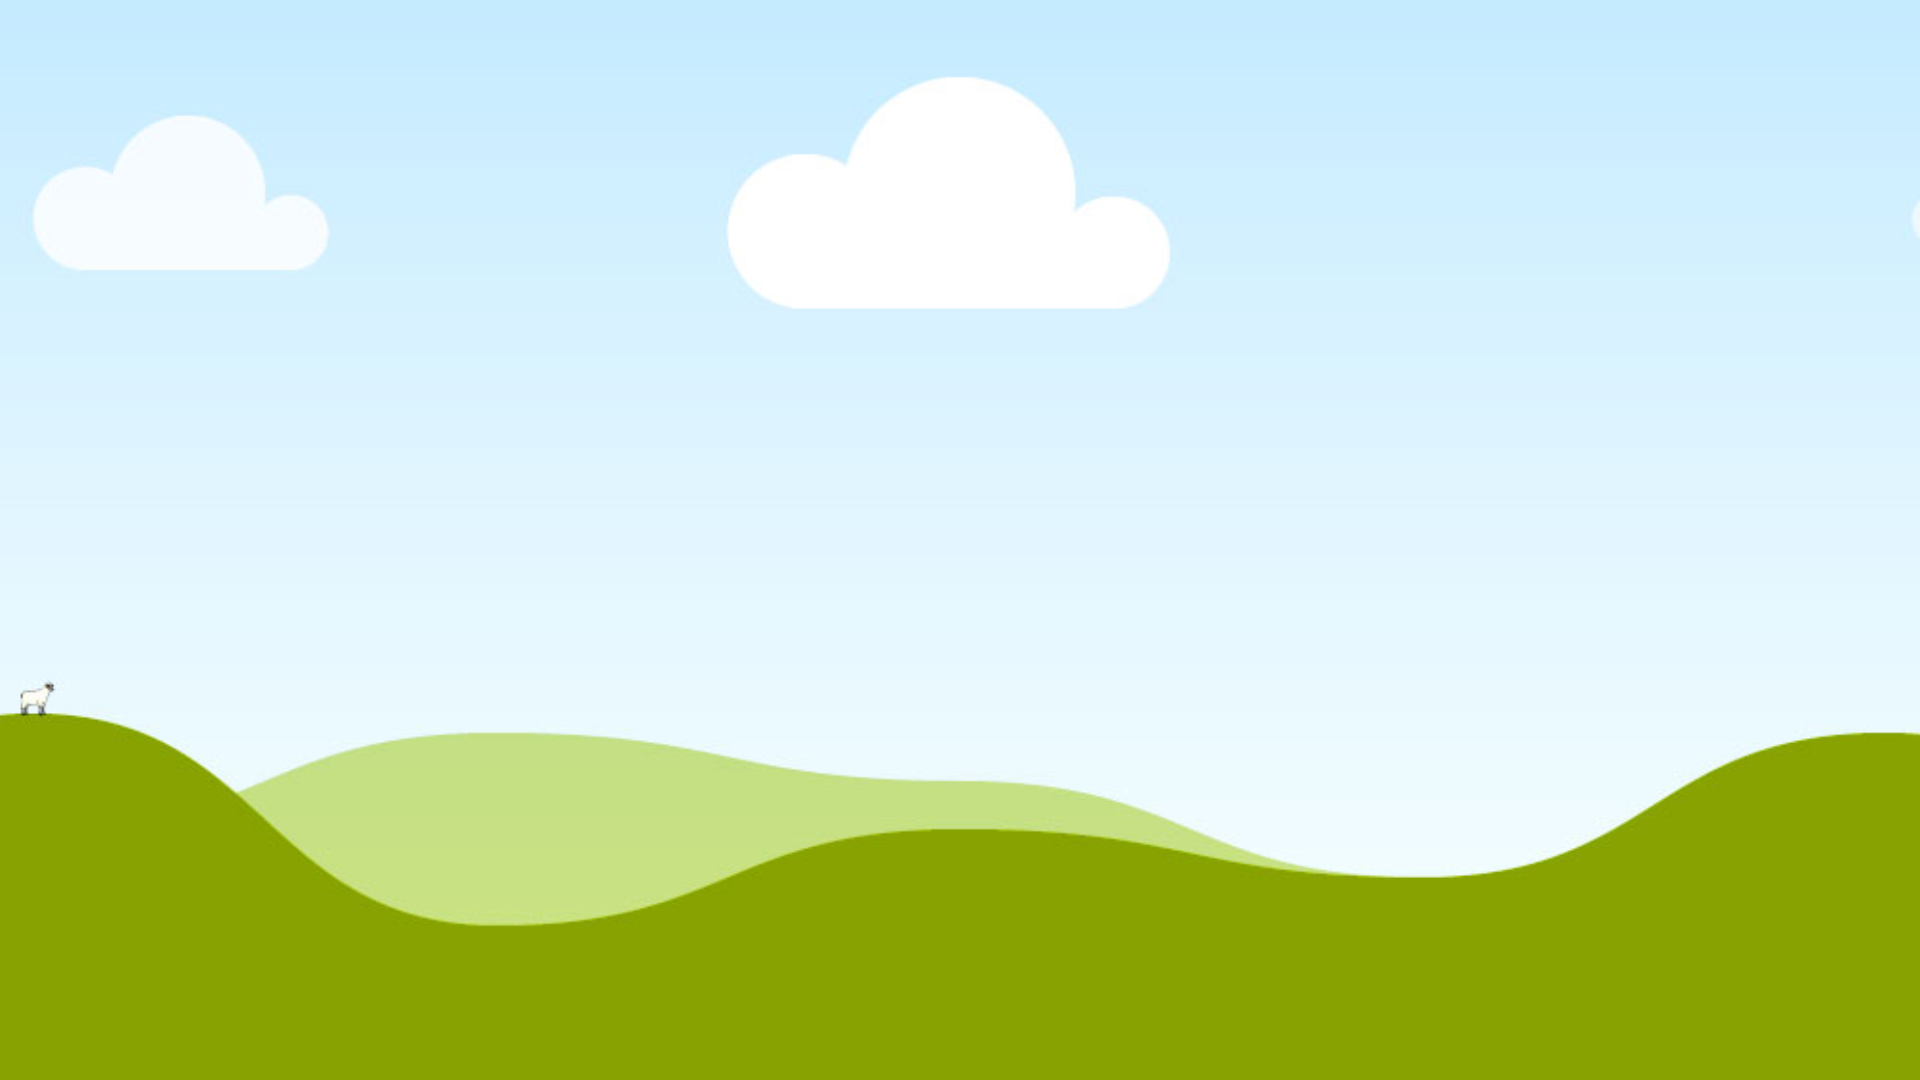
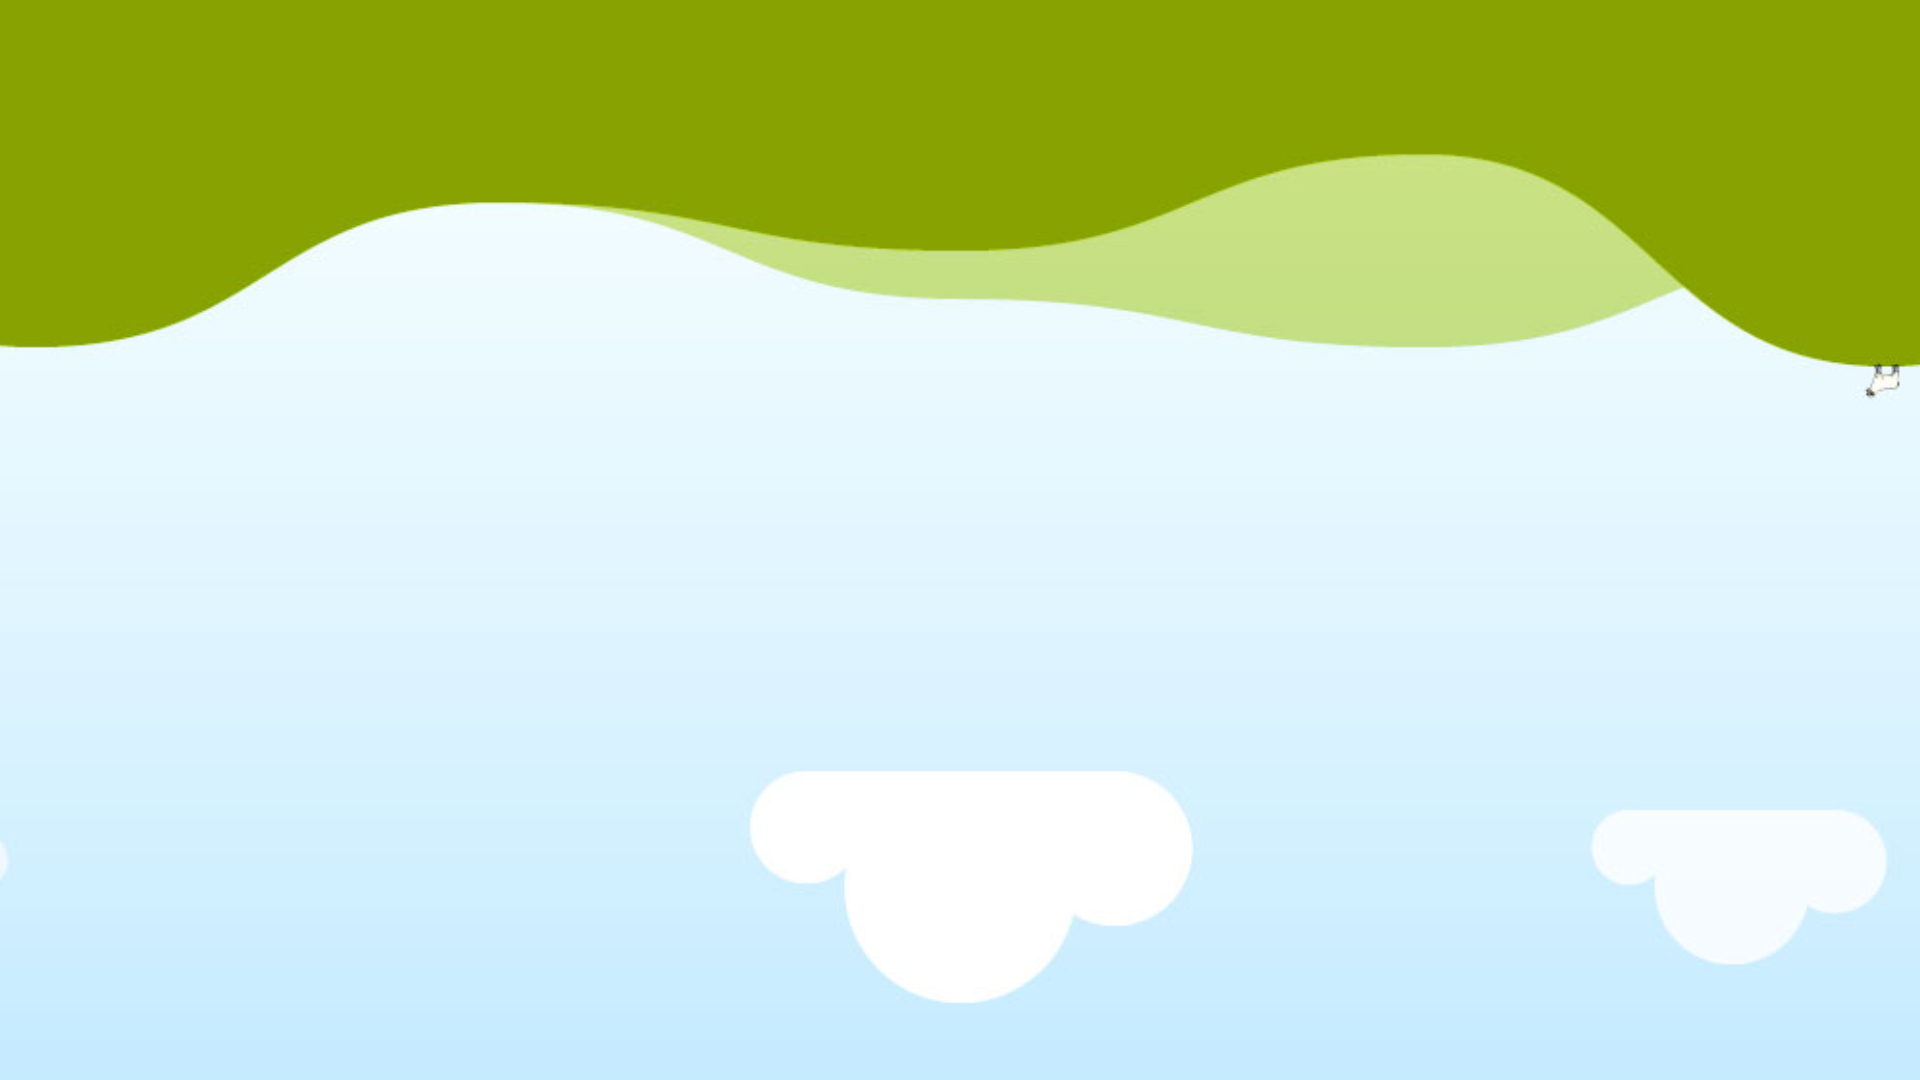
Adds the second landing page

diff --git a/frontend/src/Components/Landing/Landing.js b/frontend/src/Components/Landing/Landing.js
@@ -1,14 +1,21 @@
 // files
 import "./Landing.css";
 import LinkItem from "../Link/Link";
+import GetStarted from "../Buttons/GetStarted";
 const Landing = () => {
     return (
-        <section className = "w-full h-screen" id = "landing">
-           <nav className = "flex justify-end gap-4 md:gap-8 xl:gap-12 pr-6 md:pr-10 xl:pr-12">
-                <LinkItem label = {"Login"} path = {"/login"} /> 
-                <LinkItem label = {"Register"} path = {"/register"} /> 
-           </nav> 
-        </section>
+        <>
+            <section className = "w-full h-screen flex flex-col justify-between" id = "landing">
+                <nav className = "flex justify-end gap-4 md:gap-8 xl:gap-12 pr-6 md:pr-10 xl:pr-12">
+                        <LinkItem label = {"Login"} path = {"/login"} /> 
+                        <LinkItem label = {"Register"} path = {"/register"} /> 
+                </nav>
+                <GetStarted /> 
+            </section>
+            <section className = "w-full h-screen" id = "intro">
+
+            </section>
+        </>
     )
 }
 export default Landing;

diff --git a/frontend/src/Components/Buttons/GetStarted.js b/frontend/src/Components/Buttons/GetStarted.js
@@ -1,0 +1,15 @@
+// dependencies
+import Button from 'react-bootstrap/Button';
+import { useNavigate } from 'react-router-dom';
+import { FaArrowRightLong } from "react-icons/fa6";
+const GetStarted = () => {
+    const navigate = useNavigate();
+
+    return (
+        <Button onClick = {() => navigate("/home")} variant = "danger" size = "lg" className = "w-max self-center mb-12">
+            Get Started 
+            <FaArrowRightLong className = "inline-block ml-2" />
+        </Button>
+    )
+}
+export default GetStarted;

diff --git a/frontend/src/Components/Landing/Landing.css b/frontend/src/Components/Landing/Landing.css
@@ -4,6 +4,12 @@
     background-size: cover;
     background-position: center;
 }
+#intro {
+    background: url('../../assets/images/landing_bg.png');
+    background-repeat: no-repeat;
+    background-size: cover;
+    background-position: center;
+}
 @media screen and (min-width: 550px) {
     #landing {
         background: url("../../assets/images/landing.jpg");
